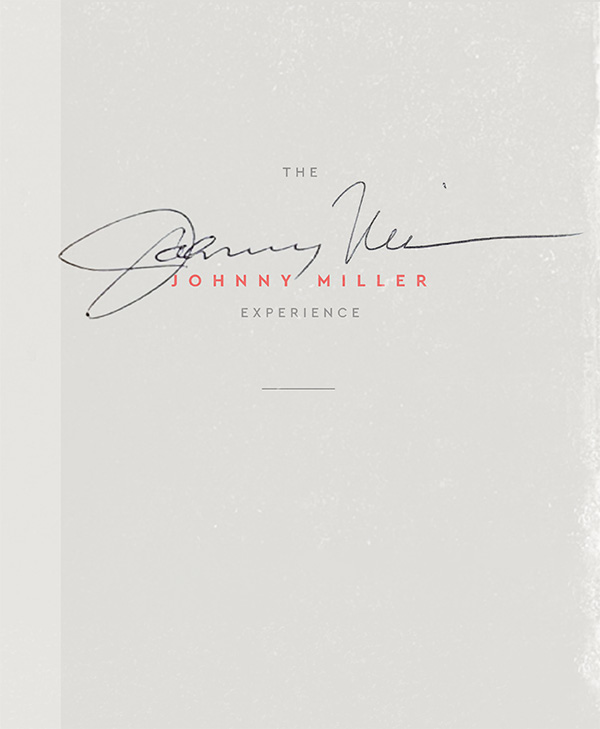
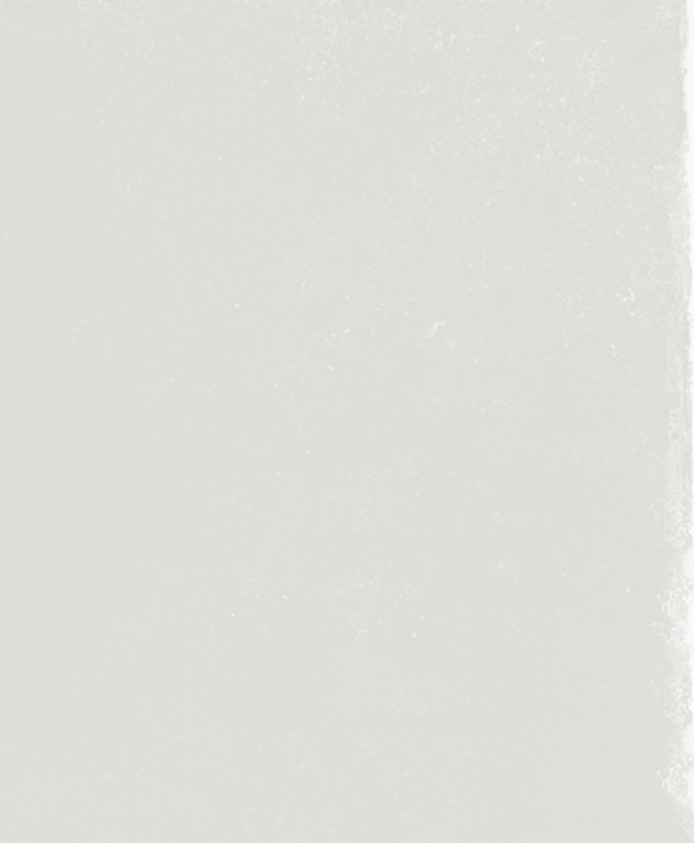
Homepage fixes

diff --git a/src/routes/index.svelte b/src/routes/index.svelte
@@ -8,8 +8,12 @@
 			<div class="blocks">
 				<div class="block block-1"><div class="img"></div></div>
 				<div class="block block-2">
-					<div class="img">
-						<h1 class="ghost">The Johnny Miller Experience</h1>
+					<div class="img"></div>
+					<div class="detail">
+						<div class="logo"></div>
+						<h1><span>The </span><strong>Johnny <br>Miller</strong> <span>Experience</span></h1>
+						<p>Lorem ipsum dolor sit amet, consectetur adipiscing elit. <br>Proin porta justo.</p>
+						<div class="button" disabled>Coming Soon</div>
 					</div>
 				</div>
 			</div>
@@ -19,22 +23,6 @@
 	<div class="chapter chapter-2">
 		<div class="chapter-content">
 			<blockquote>
-				<!-- <p>Johnny Miller is a very honest guy.</p>
-				<p>That may have been to his detriment sometimes.</p>
-				<p>
-					On television, he’s too honest.
-					We talk about it a lot.
-					Do you really need to be that honest?
-				</p>
-				<p>
-					But he’s a good man.
-					He’s got good values.
-				</p>
-				<footer>
-					Jack Nicklaus
-				</footer> -->
-
-
 				<!-- https://www.golfdigest.com/story/7-questions-with-dan-hicks-on-johnny-miller-the-quirks-you-dont-see-johnnys-legendary-lexicon-and-what-hell-miss-most-about-miller -->
 				<!-- I’ll miss most, in addition to the broadcasting brilliance, and just never a dull moment and every single show he makes so interesting, I’ll miss just as much just being with him. -->
 				<p>In addition to the broadcasting brilliance,</p>
@@ -87,7 +75,6 @@
 
 </div>
 
-
 <!-- <script></script> -->
 
 <style type="text/scss">
@@ -100,8 +87,20 @@
 		// .chapter-content {}
 		.blocks {
 			display: flex;
+			position: relative;
+			&::after {
+				content: '';
+				display: block;
+				position: absolute;
+				top: 0;
+				right: 45%;
+				bottom: 0;
+				left: 45.5%;
+				background-color: rgba(255, 255, 255, 0.4);
+			}
 		}
 		.block {
+			position: relative;
 			flex: 1;
 		}
 		.img {
@@ -112,6 +111,67 @@
 		}
 		.block-1 .img { background-image: url('/img/home-main-johnny.jpg'); }
 		.block-2 .img { background-image: url('/img/home-main-texts.jpg'); }
+		.detail {
+			display: flex;
+			flex-direction: column;
+			justify-content: flex-start;
+			align-items: center;
+			position: absolute;
+			top: 0;
+			right: 0;
+			bottom: 0;
+			left: 0;
+			padding: 0 40rem;
+			text-align: center;
+			> * {
+				position: relative;
+				z-index: 2;
+			}
+		}
+		.logo {
+			position: absolute;
+			top: 24.5%;
+			left: 9.5%;
+			height: 19.6365%;
+			width: 88.2865%;
+			background: url('/img/logo-home.png') no-repeat center transparent;
+			background-size: contain;
+			z-index: 1;
+		}
+		h1 {
+			display: flex;
+			flex-direction: column;
+			align-items: center;
+			width: 100%;
+			margin: 31% 0 0;
+			color: #939291;
+			font: $bold 16rem/1 $font;
+			letter-spacing: 5rem;
+			br { display: none; }
+			:first-child {
+				margin-bottom: 17.55%;
+			}
+			strong {
+				margin-bottom: 3.1%;
+				font: $bold 20rem/1 $font;
+				letter-spacing: 12rem;
+				color: #e36362;
+			}
+			// :last-child {}
+			&:after {
+				content: '';
+				display: block;
+				width: 85rem;
+				height: 1rem;
+				margin: 13% auto;
+				background-color: $black;
+			}
+		}
+		p {
+			width: 50%;
+			margin-bottom: 13%;
+			font: 20rem/24rem $font;
+		}
 	}
 
 	.chapter-2 {
@@ -206,21 +266,35 @@
 		}
 	}
 
+	@media (--large-to-medium) {
+		.chapter-1 {
+			.logo { top: 20.5%; }
+			h1 {
+				margin-top: 27%;
+				br { display: block; }
+				:first-child { margin-bottom: 20%; }
+				strong { margin-bottom: 3.1%; }
+				&:after { margin: 8% auto; }
+			}
+			p {
+				width: 80%;
+				margin-bottom: 8%;
+				font-size: 17rem;
+			}
+		}
+	}
 	@media (--small-down) {
 		.chapter-1 {
-			.blocks { display: block; }
+			.blocks {
+				display: block;
+				&::after {
+					top: 48%;
+					right: 0;
+					bottom: 47%;
+					left: 0;
+				}
+			}
 			.img { position: relative; }
-			// .block .img::before {
-			// 	content: '';
-			// 	display: block;
-			// 	position: absolute;
-			// 	top: 0;
-			// 	bottom: 0;
-			// 	width: 10.2%;
-			// 	background-color: rgba(255, 255, 255, 0.2);
-			// }
-			// .block-1 .img::before { left: 0; }
-			// .block-2 .img::before { right: 0; width: 9.065%; }
 			.block-2 .img::after {
 				content: '';
 				display: block;
@@ -232,6 +306,7 @@
 				margin-top: -5%;
 				background-color: rgba(255, 255, 255, 0.4);
 			}
+			p { width: 75%; }
 		}
 		.chapter-2 {
 			blockquote {
@@ -245,6 +320,23 @@
 		.chapter-3 {
 			.blocks {
 				flex-direction: column;
+			}
+		}
+	}
+	@media (--smallest) {
+		.chapter-1 {
+			.logo { top: 20.5%; }
+			h1 {
+				margin-top: 27%;
+				br { display: block; }
+				:first-child { margin-bottom: 20%; }
+				strong { margin-bottom: 3.1%; }
+				&:after { margin: 8% auto; }
+			}
+			p {
+				width: 100%;
+				margin-bottom: 8%;
+				font-size: 17rem;
 			}
 		}
 	}

diff --git a/static/css/global.css b/static/css/global.css
@@ -654,21 +654,24 @@ a, area, button, label, summary, [tabindex] {
 	display: inline-flex;
 	align-items: center;
 	justify-content: center;
+	height: 45rem;
 	margin: 0 0 10rem;
-	padding: 8rem 16rem;
-	background-color: #77c5cc;
-	border: 1px solid transparent;
-	border-radius: 1px;
-	color: #ffffff;
-	font: 600 14rem/1 'Cerapro', 'Helvetica Neue', Helvetica, Arial, sans-serif;
+	padding: 0 40rem;
+	background-color: transparent;
+	border: 1px solid rgba(0, 0, 0, 0.3);
+	font: 600 15rem/45rem 'Cerapro', 'Helvetica Neue', Helvetica, Arial, sans-serif;
+	text-transform: uppercase;
 	text-align: center;
+	letter-spacing: 6rem;
+	white-space: nowrap;
 	transition: background-color 0.15s ease-in-out, color 0.15s ease-in-out;
 	cursor: pointer;
 	-webkit-appearance: none;
 }
 
 .button:hover, .button:focus {
-		background-color: #2c8f99;
+		background-color: #323335;
+		color: white;
 	}
 
 .button.tiny {
@@ -705,12 +708,12 @@ a, area, button, label, summary, [tabindex] {
 
 .button.warning {
 		background-color: #fbc90d;
-		color: #000000;
+		color: #323335;
 	}
 
 .button.warning:hover, .button.warning:focus {
 			background-color: #f4e4a6;
-			color: #000000;
+			color: #323335;
 		}
 
 .button.alert {
@@ -725,12 +728,12 @@ a, area, button, label, summary, [tabindex] {
 
 .button.dull {
 		background-color: #e1e5e6;
-		color: #000000;
+		color: #323335;
 	}
 
 .button.dull:hover, .button.dull:focus {
 			background-color: #cbd0d1;
-			color: #000000;
+			color: #323335;
 		}
 
 .button.link {
@@ -756,26 +759,24 @@ a, area, button, label, summary, [tabindex] {
 .button.off {
 		padding: 0;
 		background-color: transparent;
-		color: #000000;
+		color: #323335;
 		cursor: default;
 		pointer-events: none;
 	}
 
 .button.off:hover, .button.off:focus {
 			background-color: transparent;
-			color: #000000;
+			color: #323335;
 		}
 
 .button[disabled] {
-		background-color: #cbd0d1;
-		color: white;
 		cursor: default;
 		pointer-events: none;
 	}
 
 .button[disabled]:hover, .button[disabled]:focus {
-			background-color: #cbd0d1;
-			color: white;
+			background-color: transparent;
+			color: #323335;
 		}
 
 /** >>>>>>>>>>>>>>>>>>>>>>>>>>>>>>>>>>>>>>>>>>>>>>>>>>
